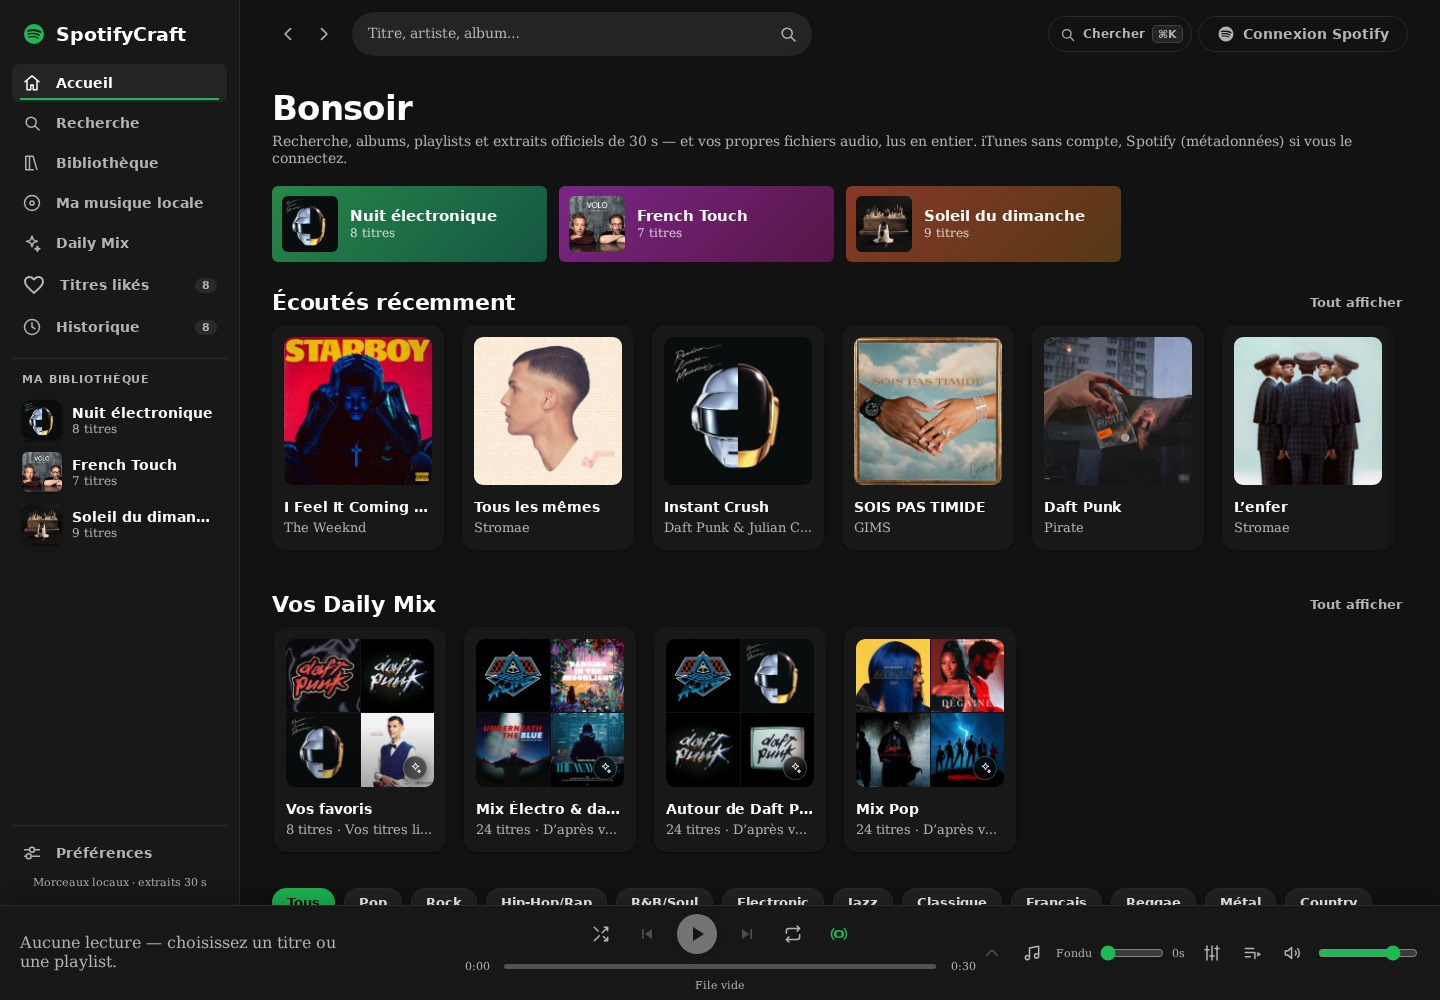
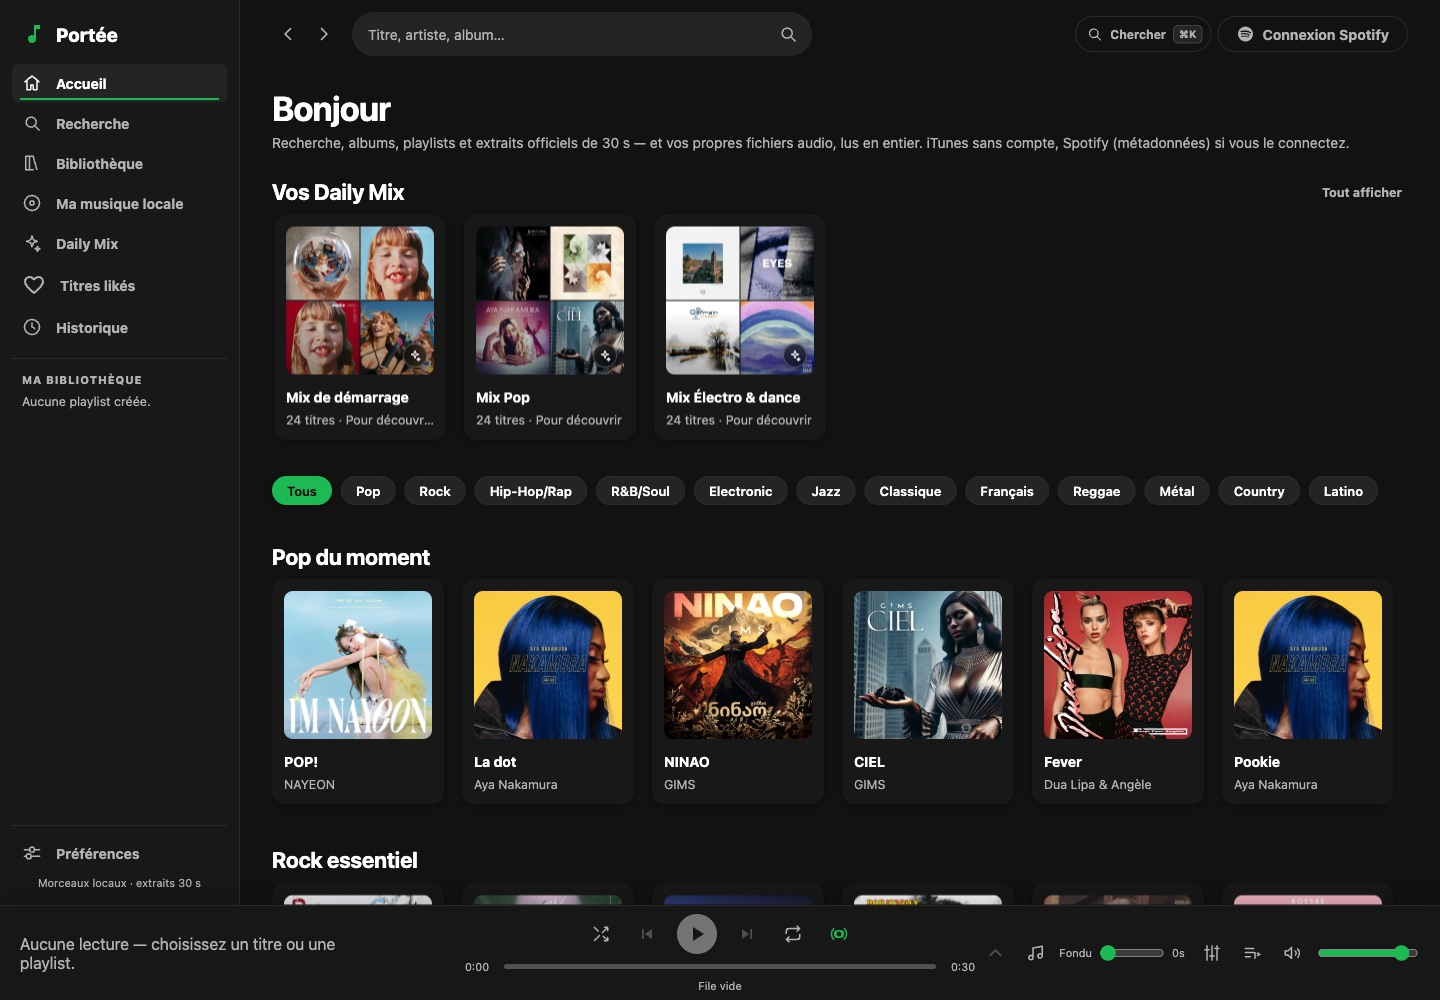
Renomme l'application en Portée et refait le README
- Marque « Portée » dans l'interface : barre latérale, titre d'onglet, métadonnées
  Open Graph, favicon (portée musicale) et lanceur macOS renommé.
- Nouvelles captures pour tous les écrans, régénérées avec la marque actuelle.
- README réorganisé : hero, grille d'aperçu, section collection Craftline.
- Description du dépôt GitHub mise à jour ; identifiants internes (store local,
  paquet WASM) inchangés pour ne pas casser les données existantes.

🤖 Generated with Codebuff

diff --git a/index.html b/index.html
@@ -28,22 +28,22 @@
     </script>
     <meta
       name="description"
-      content="SpotifyCraft — clone open-source de Spotify : recherche, albums, playlists, file d'attente, extraits officiels de 30 s et bibliothèque audio locale, sans clé API."
+      content="Portée — lecteur musical open source de la collection Craftline : recherche, albums, playlists, file d'attente, paroles, extraits officiels de 30 s et bibliothèque audio locale, sans clé API."
     />
     <meta property="og:type" content="website" />
-    <meta property="og:title" content="SpotifyCraft — lecteur musical open-source" />
+    <meta property="og:title" content="Portée — lecteur musical open source" />
     <meta
       property="og:description"
       content="Recherche, albums, artistes, playlists et file d'attente. Extraits officiels de 30 s via iTunes, métadonnées Spotify en option, et fichiers audio locaux complets."
     />
     <meta property="og:image" content="/favicon.svg" />
     <meta name="twitter:card" content="summary" />
-    <meta name="twitter:title" content="SpotifyCraft" />
+    <meta name="twitter:title" content="Portée" />
     <meta
       name="twitter:description"
-      content="Clone open-source de Spotify : extraits officiels, playlist, historique, file d'attente et fichiers audio locaux."
+      content="Lecteur musical open source : extraits officiels, playlists, historique, file d'attente et fichiers audio locaux."
     />
-    <title>SpotifyCraft</title>
+    <title>Portée</title>
   </head>
   <body>
     <div id="root"></div>

diff --git a/src/components/Sidebar.tsx b/src/components/Sidebar.tsx
@@ -19,9 +19,9 @@ export default function Sidebar() {
 
   return (
     <aside className="sidebar">
-      <NavLink className="brand" to="/" aria-label="SpotifyCraft — accueil" title="SpotifyCraft — accueil">
-        <span className="brand-dot" aria-hidden>{Icons.spotify(24)}</span>
-        <span>SpotifyCraft</span>
+      <NavLink className="brand" to="/" aria-label="Portée — accueil" title="Portée — accueil">
+        <span className="brand-dot" aria-hidden>{Icons.note(24)}</span>
+        <span>Portée</span>
       </NavLink>
 
       {/* En dessous de 960 px la colonne se réduit aux icônes : chaque lien

diff --git a/src/components/Layout.tsx b/src/components/Layout.tsx
@@ -23,7 +23,7 @@ export default function Layout() {
   // Onglet : le titre en cours, pour retrouver l'app parmi d'autres onglets.
   const track = useStore(currentTrack);
   useEffect(() => {
-    document.title = track ? `${track.title} · ${track.artist} — SpotifyCraft` : 'SpotifyCraft';
+    document.title = track ? `${track.title} · ${track.artist} — Portée` : 'Portée';
   }, [track]);
 
   // Palette de commandes : ⌘K / Ctrl+K depuis n'importe où dans l'app.

diff --git a/src/components/ErrorBoundary.tsx b/src/components/ErrorBoundary.tsx
@@ -17,7 +17,7 @@ export default class ErrorBoundary extends Component<
 
   componentDidCatch(error: Error, info: ErrorInfo): void {
     // Visible en console pour le débogage local ; pas de service externe.
-    console.error('SpotifyCraft — erreur de rendu', error, info.componentStack);
+    console.error('Portée — erreur de rendu', error, info.componentStack);
   }
 
   render() {

diff --git a/src/components/player/AudioEngine.tsx b/src/components/player/AudioEngine.tsx
@@ -393,7 +393,7 @@ function useAudioEngine(): React.RefObject<HTMLAudioElement> {
     navigator.mediaSession.metadata = new MediaMetadata({
       title: track.title,
       artist: track.artist,
-      album: track.album || 'SpotifyCraft',
+      album: track.album || 'Portée',
       artwork: track.cover ? [{ src: track.cover, sizes: '600x600' }] : [],
     });
   }, [track]);

diff --git a/server/itunesProxy.ts b/server/itunesProxy.ts
@@ -83,7 +83,7 @@ function middleware(): Connect.NextHandleFunction {
           signal: ctrl.signal,
           headers: {
             Accept: 'application/json',
-            'User-Agent': 'SpotifyCraft/0.1 (clone open-source; +local)',
+            'User-Agent': 'Portee/0.1 (lecteur open source; +local)',
           },
         });
         const body = await upstream.text();

diff --git a/src/styles.css b/src/styles.css
@@ -1,5 +1,5 @@
 /* ================================================================
-   SpotifyCraft — thème sombre par défaut + thème clair
+   Portée — thème sombre par défaut + thème clair
    ================================================================ */
 
 :root,

diff --git a/README.md b/README.md
@@ -1,8 +1,8 @@
 <div align="center">
 
-# 🎧 SpotifyCraft
+# 🎵 Portée
 
-**Un lecteur musical open-source façon Spotify — recherche, albums, artistes, playlists, file d'attente, paroles et extraits officiels. Aucune clé API, aucun compte obligatoire.**
+**Un lecteur musical open source, complet et sans compte obligatoire — recherche, albums, artistes, playlists, file d'attente, paroles et extraits officiels. Aucune clé API.**
 
 [![CI](https://github.com/DmzGamingYT/spotifycraft/actions/workflows/ci.yml/badge.svg)](https://github.com/DmzGamingYT/spotifycraft/actions/workflows/ci.yml)
 [![Licence MIT](https://img.shields.io/badge/licence-MIT-1db954.svg)](LICENSE)
@@ -14,15 +14,15 @@
 
 [Fonctionnalités](#-fonctionnalités) · [Aperçu](#-aperçu) · [Démarrage](#-démarrage-rapide) · [Architecture](#-architecture) · [Qualité](#-qualité--tests)
 
-<img src="docs/screenshots/home.jpg" alt="Accueil de SpotifyCraft : raccourcis de playlists, écoutés récemment et Daily Mix" width="100%">
+<img src="docs/screenshots/home.jpg" alt="Accueil de Portée : Daily Mix, genres et nouveautés" width="100%">
 
-<sub>Accueil — raccourcis de playlists, historique, Daily Mix personnalisés et étagères de genres.</sub>
+<sub>Accueil — Daily Mix personnalisés, filtres de genres et étagères du catalogue.</sub>
 
 </div>
 
 ---
 
-## ✨ Pourquoi SpotifyCraft ?
+## ✨ Pourquoi Portée ?
 
 Une interface de musique complète qui tourne **entièrement dans le navigateur** :
 
@@ -30,6 +30,9 @@ Une interface de musique complète qui tourne **entièrement dans le navigateur*
 - **Aucun compte local** : la connexion, optionnelle, passe par **Spotify OAuth PKCE** (sans secret) pour enrichir les métadonnées.
 - **Vos fichiers, en entier** : glissez un dossier de MP3, FLAC, WAV, M4A, OGG ou OPUS — il est importé dans **IndexedDB** et lu sans serveur.
 - **Vos données restent chez vous** : likes, playlists, historique et mix sont stockés localement, jamais envoyés.
+
+> **Portée** est l'application musique de la collection **[Craftline](https://site-837caca50a67485a994f4549b9ef7404.freebuff.page/collection/)** —
+> avec **Séquence** (vidéo) et **Battement** (santé). Même promesse : open source, sans abonnement, sans télémétrie.
 
 ## 🖼 Aperçu
 
@@ -46,8 +49,8 @@ Une interface de musique complète qui tourne **entièrement dans le navigateur*
   </tr>
   <tr>
     <td width="50%">
-      <img src="docs/screenshots/nowplaying.jpg" alt="Vue grand format avec pochette, paroles synchronisées et commandes" width="100%">
-      <sub><b>Vue grand format</b> — pochette, paroles, progression, volume et « À suivre », fermable au glissement.</sub>
+      <img src="docs/screenshots/nowplaying.jpg" alt="Vue grand format avec pochette, paroles et commandes" width="100%">
+      <sub><b>Vue grand format</b> — pochette, halo flouté, paroles, progression, volume et « À suivre ».</sub>
     </td>
     <td width="50%">
       <img src="docs/screenshots/queue.jpg" alt="File d'attente avec glisser-déposer" width="100%">
@@ -66,8 +69,8 @@ Une interface de musique complète qui tourne **entièrement dans le navigateur*
   </tr>
   <tr>
     <td width="50%">
-      <img src="docs/screenshots/library.jpg" alt="Bibliothèque avec titres likés, historique et playlists" width="100%">
-      <sub><b>Bibliothèque</b> — likes, historique, artistes suivis et playlists persistants.</sub>
+      <img src="docs/screenshots/liked.jpg" alt="Titres likés avec export M3U" width="100%">
+      <sub><b>Titres likés</b> — sélection persistante, lecture en un clic et export M3U.</sub>
     </td>
     <td width="50%">
       <img src="docs/screenshots/mobile.png" alt="Version mobile de l'application" width="100%">
@@ -77,7 +80,7 @@ Une interface de musique complète qui tourne **entièrement dans le navigateur*
 </table>
 
 <div align="center">
-  <img src="docs/screenshots/light.jpg" alt="Thème clair de SpotifyCraft" width="100%">
+  <img src="docs/screenshots/light.jpg" alt="Thème clair de Portée" width="100%">
   <sub>Thème clair — l'application suit le système par défaut, ou se force en clair/sombre.</sub>
 </div>
 
@@ -99,6 +102,14 @@ Une interface de musique complète qui tourne **entièrement dans le navigateur*
 | **Thème & accessibilité** | Thème système par défaut (ou clair/sombre), focus visible, pièges à focus, libellés ARIA, contrastes, `prefers-reduced-motion`, lien d'évitement. |
 | **Lecteur avancé** | **Égaliseur 10 bandes** + presets, visualiseur audio, MediaSession (écran verrouillé, casque), raccourcis `Espace` `←/→` `Maj+←/→` `M` `S` `R`. |
 
+## 🧩 La collection Craftline
+
+| Application | Rôle | Dépôt |
+| --- | --- | --- |
+| **Séquence** | Client vidéo : recherche, lecteur, Shorts, abonnements. | [tubecraft](https://github.com/DmzGamingYT/tubecraft) |
+| **Portée** | Lecteur musical : catalogue, extraits, paroles, fichiers locaux. | ce dépôt |
+| **Battement** | Suivi sportif et santé local-first, coach IA. | [pulsecraft](https://github.com/DmzGamingYT/pulsecraft) |
+
 ## ⚡ Démarrage rapide
 
 Prérequis : **Node.js ≥ 20.19** (ou ≥ 22.12 pour Vite 8).
@@ -110,7 +121,7 @@ npm ci
 npm run dev        # http://127.0.0.1:5184
 ```
 
-Sur macOS, vous pouvez aussi **double-cliquer sur `Démarrer SpotifyCraft.command`**.
+Sur macOS, vous pouvez aussi **double-cliquer sur `Démarrer Portée.command`**.
 
 Le noyau d'import Rust est fourni **précompilé** (~45 Ko) dans `src/wasm/import-core` :
 aucun outillage Rust n'est nécessaire pour lancer ou construire l'application.
@@ -127,7 +138,7 @@ Le flux est **Authorization Code + PKCE** : aucun `client_secret` côté navigat
 Sans identifiant, l'application reste pleinement utilisable avec le catalogue iTunes.
 
 > **Extraits Spotify** — depuis fin 2024, Spotify ne garantit plus `preview_url` aux
-> nouvelles applications. SpotifyCraft garde Spotify pour les métadonnées et
+> nouvelles applications. Portée garde Spotify pour les métadonnées et
 > **complète les extraits manquants avec iTunes**. Si rien n'est trouvé, les titres
 > iTunes prennent le relais pour que la lecture reste possible.
 
@@ -204,7 +215,7 @@ via un petit service (Cloudflare Worker, Netlify/Vercel function) — le front n
 
 ## 📄 Licence
 
-SpotifyCraft est publié sous licence [MIT](LICENSE) — libre à chacun d'utiliser,
+Portée est publié sous licence [MIT](LICENSE) — libre à chacun d'utiliser,
 modifier et redistribuer.
 
 <div align="center">
